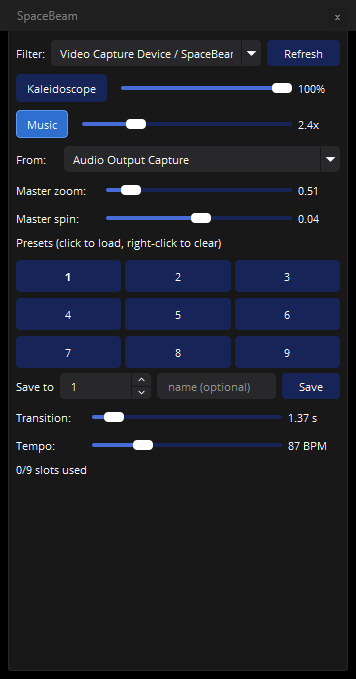
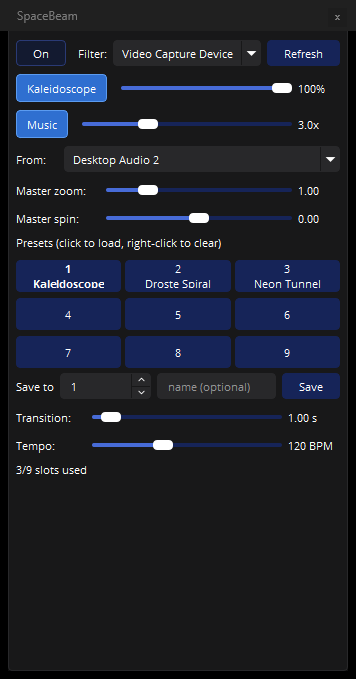
Dock: master on/off and working music defaults (1.1.1)
- The Music toggle only moved band values; with no routing configured the
  image never changed, which made the feature look broken. Turning Music on
  now wires bass -> kaleidoscope zoom and treble -> hue, unless the user has
  already routed something. Turning it on with no source selected also picks
  the first audio source.
- Added an On / Bypass button in the top row. It flips the filter's enabled
  flag (the same switch as the Filters dialog checkbox), so the whole effect
  can be killed with one click.
- The dock now syncs once more after its controls are built. The first sync
  ran before the filter list existed, so toggles kept their constructed
  defaults and disagreed with the filter.

Measured proof for the audio path: with bass driving brightness, mean
luminance is 110.2 in silence, 142-159 during playback, and 110.2 again after
stopping.

diff --git a/src/spacebeam_dock.cpp b/src/spacebeam_dock.cpp
@@ -80,6 +80,17 @@ public:
 
 		/* ---- target filter ---- */
 		auto *topRow = new QHBoxLayout();
+		/* Master on/off for the whole effect. This is the filter's enabled
+		 * flag, the same switch as the checkbox in the Filters dialog, so
+		 * it bypasses every stage at once. */
+		powerBtn_ = new QPushButton(tr("On"), this);
+		powerBtn_->setCheckable(true);
+		powerBtn_->setChecked(true);
+		powerBtn_->setMinimumWidth(46);
+		powerBtn_->setToolTip(tr("Turn the whole SpaceBeam effect on or off"));
+		topRow->addWidget(powerBtn_);
+		topRow->addSpacing(6);
+
 		topRow->addWidget(new QLabel(tr("Filter:"), this));
 		combo_ = new QComboBox(this);
 		combo_->setSizeAdjustPolicy(QComboBox::AdjustToMinimumContentsLengthWithIcon);
@@ -244,6 +255,17 @@ public:
 		connect(saveBtn, &QPushButton::clicked, this,
 			[this]() { savePreset(saveSlot_->value()); });
 
+		connect(powerBtn_, &QPushButton::toggled, this, [this](bool on) {
+			if (loading_)
+				return;
+			require([this, on](obs_source_t *f) {
+				obs_source_set_enabled(f, on);
+				powerBtn_->setText(on ? tr("On") : tr("Bypass"));
+				status_->setText(on ? tr("Effect on")
+						    : tr("Effect bypassed"));
+			});
+		});
+
 		connect(kaleidoBtn_, &QPushButton::toggled, this, [this](bool on) {
 			if (loading_)
 				return;
@@ -295,6 +317,7 @@ public:
 					audioSrc_->setCurrentIndex(1);
 					writeString("audio_src", audioSrc_->itemData(1).toString().toUtf8().constData());
 				}
+				writeAudioDefaults();
 			}
 
 			writeBool("audio_on", on);
@@ -327,6 +350,14 @@ public:
 		refreshAudioSources();
 		slotSig_ = slotSignature();
 		loading_ = false;
+
+		/* One more sync now that the controls are fully built: the first pass
+		 * ran before the filter list existed, so toggles would otherwise keep
+		 * their constructed defaults. */
+		syncFromFilter();
+		if (musicBtn_ && musicBtn_->isChecked())
+			writeAudioDefaults();
+
 		startPolling();
 	}
 
@@ -341,6 +372,7 @@ private:
 	QLabel *transVal_ = nullptr;
 	QSlider *bpm_ = nullptr;
 	QLabel *bpmVal_ = nullptr;
+	QPushButton *powerBtn_ = nullptr;
 	QPushButton *kaleidoBtn_ = nullptr;
 	QSlider *kaleido_ = nullptr;
 	QLabel *kaleidoVal_ = nullptr;
@@ -719,11 +751,17 @@ private:
 			kaleidoBtn_->setChecked(obs_data_get_bool(st, "kaleido_on"));
 		}
 
+		if (powerBtn_) {
+			const bool en = obs_source_enabled(f);
+			QSignalBlocker b(powerBtn_);
+			powerBtn_->setChecked(en);
+			powerBtn_->setText(en ? tr("On") : tr("Bypass"));
+		}
+
 		/* music */
 		{
 			QSignalBlocker b1(musicBtn_);
 			musicBtn_->setChecked(obs_data_get_bool(st, "audio_on"));
-
 			double sens = obs_data_get_double(st, "audio_sens");
 			if (sens < 0.1)
 				sens = 3.0;
@@ -816,6 +854,48 @@ private:
 			obs_data_set_string(st, key, copy.c_str());
 			obs_source_update(f, st);
 			obs_data_release(st);
+		});
+	}
+
+	/* Music on its own changes nothing: bands rise and fall, but they only
+	 * move the image once a routing points a band at a parameter. If the user
+	 * has never configured one, wire up a pair that is obviously visible -
+	 * bass pumps the kaleidoscope zoom, treble shifts the hue. */
+	void writeAudioDefaults()
+	{
+		if (loading_)
+			return;
+		require([](obs_source_t *f) {
+			obs_data_t *st = obs_source_get_settings(f);
+			if (!st)
+				return;
+
+			bool routed = false;
+			for (int i = 1; i <= 4 && !routed; i++) {
+				char key[32];
+				snprintf(key, sizeof(key), "audio%d_on", i);
+				routed = obs_data_get_bool(st, key);
+			}
+			if (routed) {
+				obs_data_release(st);
+				return;
+			}
+
+			/* Target indices are into sb_mod_targets[]: 21 = k_zoom,
+			 * 12 = hue. Band 0 is bass, band 3 is treble. */
+			obs_data_set_bool(st, "audio1_on", true);
+			obs_data_set_int(st, "audio1_band", 0);
+			obs_data_set_int(st, "audio1_target", 21);
+			obs_data_set_double(st, "audio1_depth", 0.18);
+
+			obs_data_set_bool(st, "audio2_on", true);
+			obs_data_set_int(st, "audio2_band", 3);
+			obs_data_set_int(st, "audio2_target", 12);
+			obs_data_set_double(st, "audio2_depth", 0.30);
+
+			obs_source_update(f, st);
+			obs_data_release(st);
+			blog(LOG_INFO, "[spacebeam] dock: wired default audio routings");
 		});
 	}
 

diff --git a/CHANGELOG.md b/CHANGELOG.md
@@ -1,5 +1,35 @@
 # Changelog
 
+## 1.1.1
+
+### Music actually does something now
+
+The Music toggle raised and lowered the band values but the image never moved,
+because nothing was routed to a parameter and the routings live in the
+properties dialog. Turning Music on now wires a default pair the first time:
+
+- bass → kaleidoscope zoom
+- treble → hue
+
+Existing routings are never overwritten. Turning Music on with no source
+selected also picks the first audio source instead of silently doing nothing.
+
+Verified by measuring the render: with bass pointed at brightness, mean
+luminance sits at 110.2 in silence, rises to 142-159 during playback, and
+returns to exactly 110.2 afterwards.
+
+### Master on/off
+
+The dock now has an **On / Bypass** button in the top row. It flips the
+filter's own enabled flag - the same switch as the checkbox in the Filters
+dialog - so one click bypasses every stage.
+
+### Fixed
+
+- The dock's toggles kept their constructed state because the first sync ran
+  before the filter list existed. It now syncs once more after the controls
+  are built, so the panel always matches the filter.
+
 ## 1.1.0
 
 ### Kaleidoscope on/off, with a smooth unfold
